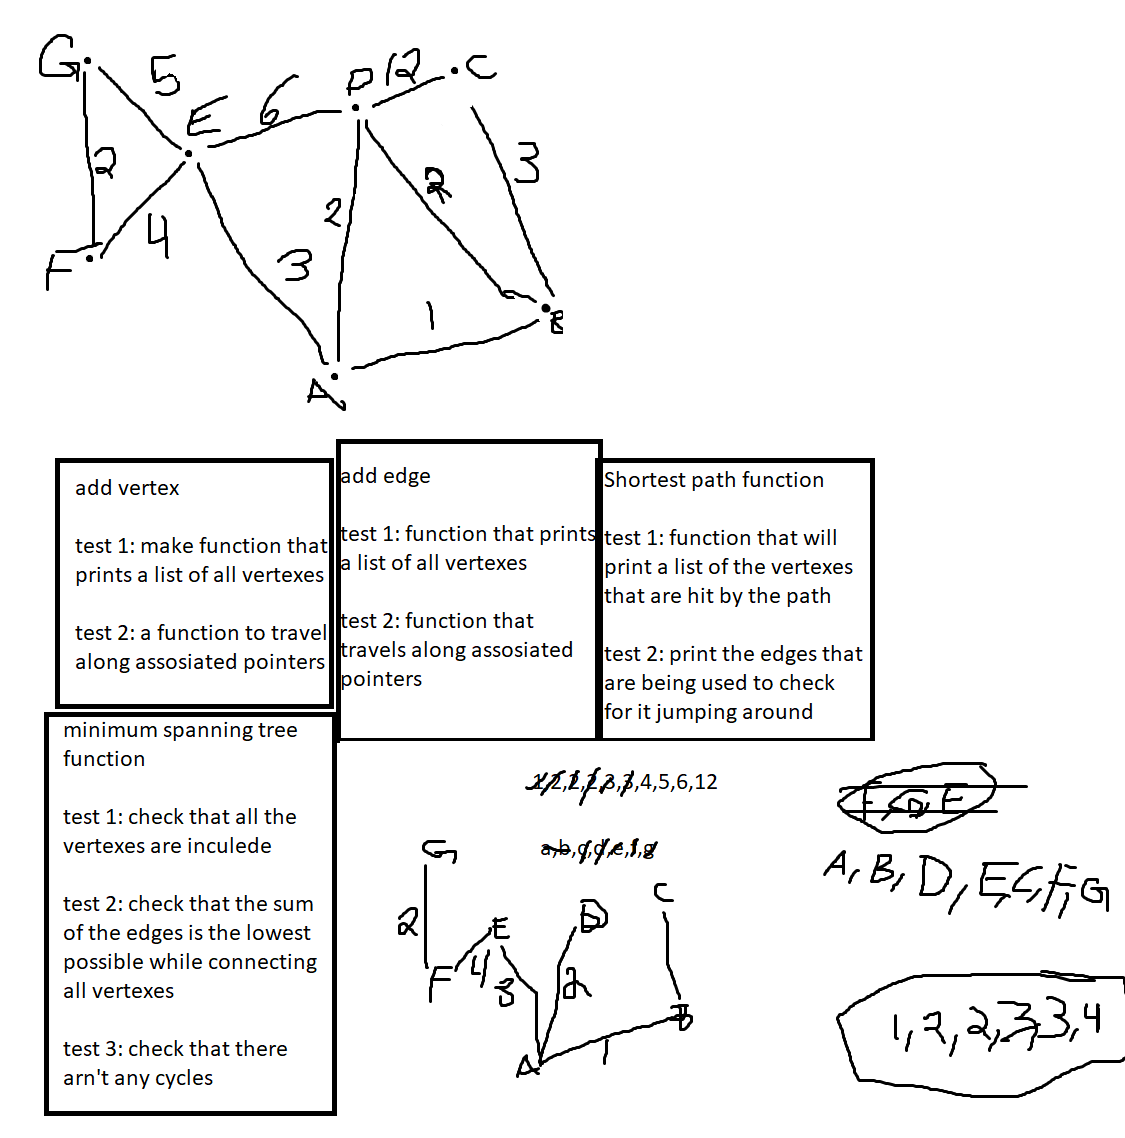
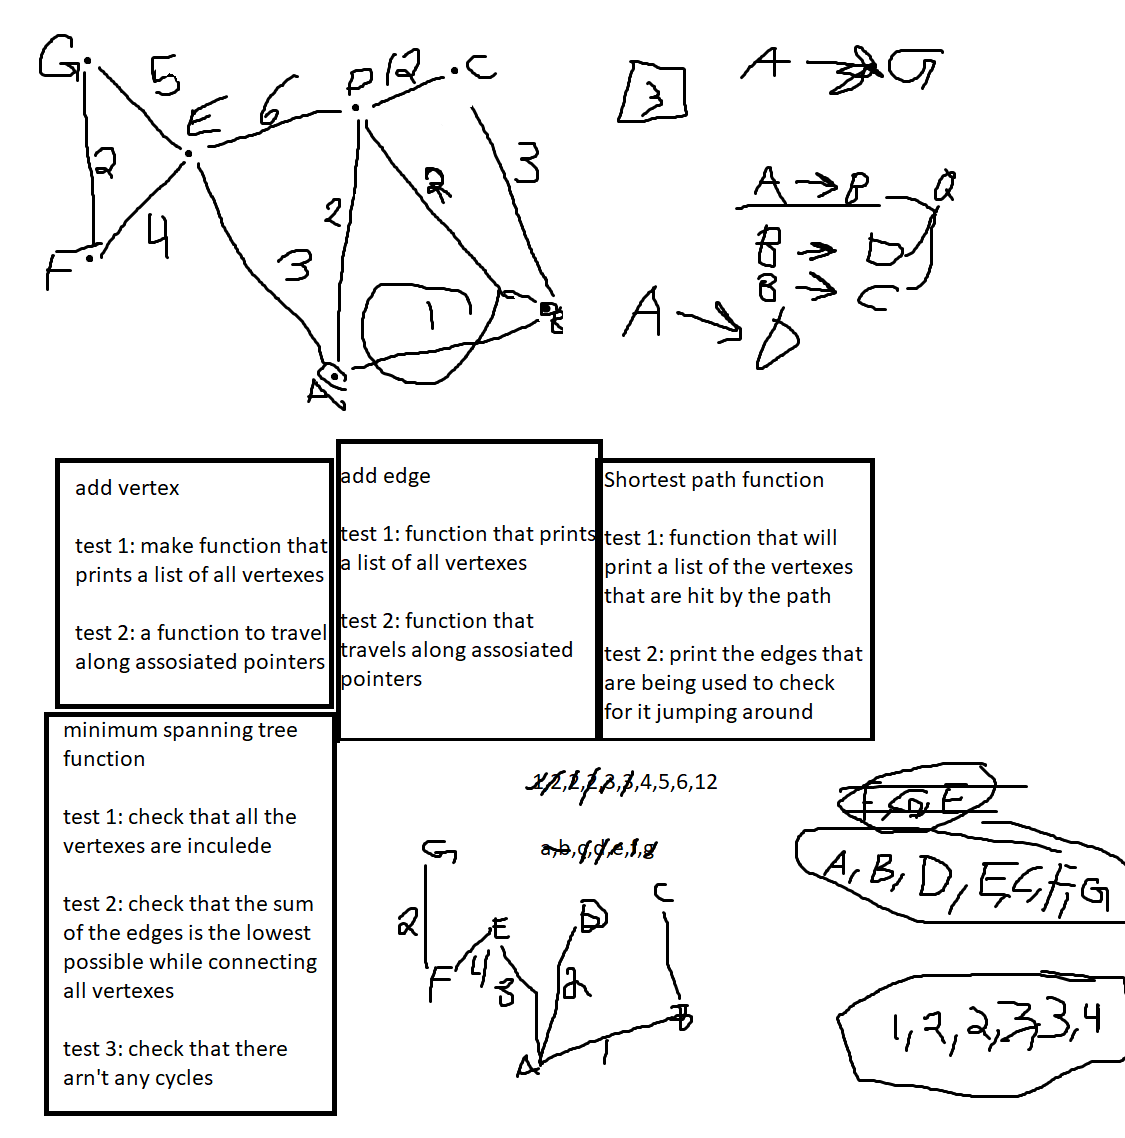
Shortest path algorithm implemented Sucsessfully HELL YEAH

diff --git a/Final/Graph.c b/Final/Graph.c
@@ -26,25 +26,50 @@ void print_graph(struct Graph *graph_name)
     
 }
 
-int print_sum_for_que_of_ques(struct que *que_of_ques)
+void print_que(struct que *que_to_be_printed)
 {
+    printf("\n");
+    int sum_of_path = 0;
+    struct linked_list_node *temp_edge = que_to_be_printed->first_node;
+    while (temp_edge != NULL)
+    {
+        Edge *edge_node = temp_edge->data;
+        sum_of_path += edge_node->weight;
+        printf("%s\n", edge_node->name);
+        temp_edge = temp_edge->ptr_next;
+    }
+    printf("sum of path: %d\n\n", sum_of_path);
+}
+
+struct que * find_shortest_path(struct que *que_of_ques)
+{
+    struct que *returned_path = NULL;
     struct linked_list_node *temp_que_node = que_of_ques->first_node;
+    int sum_of_path = 0;
+    int smallest_sum_of_path = 999999999;
     while (temp_que_node != NULL)
     {
-        int sum_of_path = 0;
         struct que *temp_edge_que = temp_que_node->data;
         struct linked_list_node *temp_edge = temp_edge_que->first_node;
         while (temp_edge != NULL)
         {
             Edge *edge_node = temp_edge->data;
             sum_of_path += edge_node->weight;
-            printf("%s\n", edge_node->name);
+            // printf("%s\n", edge_node->name);
             temp_edge = temp_edge->ptr_next;
         }
+        if (sum_of_path < smallest_sum_of_path)
+        {
+            smallest_sum_of_path = sum_of_path;
+            returned_path = temp_edge_que;
+        }
         temp_que_node = temp_que_node->ptr_next;
-        printf("sum of path: %d\n", sum_of_path);
+        // printf("sum of path: %d\n", sum_of_path);
+
+        sum_of_path = 0;
     }
-    
+    printf("smallest sum of path: %d\n", smallest_sum_of_path);
+    return returned_path;
 }
 
 //add a vertex to the graph
@@ -162,7 +187,7 @@ int search_que_data(struct que *que_to_be_searched, Edge *data_to_be_checked)
     return 1;
 }
 
-struct que * path_from_a_to_z(struct Graph *graph, struct que *edge_que_passed_in, struct que *A_Z_path_ques, char *starting_point, char *ending_point)
+struct que * paths_from_a_to_z(struct Graph *graph, struct que *edge_que_passed_in, struct que *A_Z_path_ques, char *starting_point, char *ending_point)
 {
     static int nested_levels = 0;
     struct linked_list_node *node_vert = graph->vertices->first_node;
@@ -204,6 +229,11 @@ struct que * path_from_a_to_z(struct Graph *graph, struct que *edge_que_passed_i
                 }
                 
                 path_que = add_to_que(path_que, edge_que_copy);
+                if (nested_levels > 1)
+                {
+                    pop_last_node(edge_que);
+                }
+                
             }
             else
             {
@@ -215,97 +245,27 @@ struct que * path_from_a_to_z(struct Graph *graph, struct que *edge_que_passed_i
                 {
                     temp_vert = temp_edge->point1;
                 }
-
-                edge_que = path_from_a_to_z(graph, edge_que, path_que, temp_vert->name, ending_point);
+                // printf("before recursion goes down\n");
+                // print_que(edge_que);
+                edge_que = paths_from_a_to_z(graph, edge_que, path_que, temp_vert->name, ending_point);
+                // printf("after edge_que is stored and returns from recursion\n");
             }
         }
         temp_edge_node = temp_edge_node->ptr_next;
     }
-
-    // Edge *last_edge_in_list = peek_last_node(edge_que);
-
-    // if (last_edge_in_list->point1 == ending_vert || last_edge_in_list->point2 == ending_vert)
-    // {
-    //     nested_levels--;
-    //     return edge_que;
-    // }
-
     pop_last_node(edge_que);
     nested_levels--;
     return edge_que;
 }
 
-
-
-// Function for finding the shortest path from one vertex to another
-
-// struct que * shortest_path(struct Graph *graph, char *starting_point, char *ending_point)
-// {
-//     static int nested_levels = 0;
-//     struct linked_list_node *node_vert = graph->vertices->first_node;
-//     struct linked_list_node *node_edge = graph->edges->first_node;
-//     Vertex *ending_vert = search_for_node(node_vert, ending_point,check_vertex_name);
-//     Vertex *starting_vert = search_for_node(node_vert, starting_point,check_vertex_name);
-//     nested_levels++;
-//     // printf("starting_vert name: %s, %d\n", starting_vert->name, nested_levels);
-
-//     if (nested_levels >= 50)
-//     {
-//         nested_levels--;
-//         return NULL;
-//     }
-
-//     Vertex *temp_vert = NULL;
-//     struct que *edge_que = edge_que_passed_in;
-//     struct linked_list_node *temp_edge_node = starting_vert->edge_list->first_node;
-
-//     temp_vert = starting_vert;
-//     temp_edge_node = temp_vert->edge_list->first_node;
-    
-//     while (temp_edge_node != NULL)
-//     {
-//         Edge *temp_edge = temp_edge_node->data;
-//         if (search_que_data(edge_que, temp_edge) == 1)
-//         {
-//             edge_que = add_to_que(edge_que, temp_edge);
-//             if (temp_edge->point1 == ending_vert || temp_edge->point2 == ending_vert)
-//             {
-//                 nested_levels--;
-//                 return edge_que;
-//             }
-//             if(check_vertex_name(temp_edge->point1, starting_vert->name) == 1)
-//             {
-//                 temp_vert = temp_edge->point2;
-//             }
-//             else if(check_vertex_name(temp_edge->point2, starting_vert->name) == 1)
-//             {
-//                 temp_vert = temp_edge->point1;
-//             }
-
-//             edge_que = path_from_a_to_z(graph, edge_que, temp_vert->name, ending_point);
-//         }
-//         temp_edge_node = temp_edge_node->ptr_next;
-//     }
-//     Edge *last_edge_in_list = peek_last_node(edge_que);
-
-//     if (last_edge_in_list->point1 == ending_vert || last_edge_in_list->point2 == ending_vert)
-//     {
-//         nested_levels--;
-//         return edge_que;
-//     }
-
-//     pop_last_node(edge_que);
-//     nested_levels--;
-//     return edge_que;
-// }
-
-//need to make 4 ques: que 1 list of vertices in graph and not in tree, que 2 list of vertices added to minimum spanning tree, que 3 temp list of connected vertices not in tree, que 4 list of edges in graph sorteded by weight
+//need to make 4 ques: que 1 list of vertices in graph and not in tree, que 2 list of vertices added to minimum spanning tree, que 3 temp list of
+//connected vertices not in tree, que 4 list of edges in graph sorteded by weight
 //step one connect 2 vertices from graph with lowest edge value from list (should be first one) add vertices to que 2 remove vertices from que 1 
 //step 2 cheak next lowest weighted edge's points for one in tree and one not in tree or neither in tree if neither in tree add points to que 3
 //repeat step 2 till all vertices are in tree
 void Minimum_Spanning_Tree()
 {
-
+   
 }
 
 void main()
@@ -351,7 +311,14 @@ void main()
         search_for_node(graph1.vertices->first_node,"F",check_vertex_name), 
         search_for_node(graph1.vertices->first_node,"G",check_vertex_name)));
 
-    path_que_ptr = path_from_a_to_z(&graph1,path_que_ptr,&que_of_ques,"A","G");
+    //prints Full Gragh Structure
+    print_graph(&graph1);
+    printf("\n");
+    //prints Full Graph Structure
 
-    print_sum_for_que_of_ques(&que_of_ques);
+    //shortest path print
+    paths_from_a_to_z(&graph1,path_que_ptr,&que_of_ques,"C","G");
+    path_que_ptr = find_shortest_path(&que_of_ques);
+    print_que(path_que_ptr);
+    //sortest path print finished
 }

diff --git a/Final/que_linked_list.c b/Final/que_linked_list.c
@@ -100,13 +100,13 @@ void * pop_last_node(struct que *que_num)
 {
     if (que_num == NULL)
     {
-        printf("no data in que\n");
+        // printf("no data in que\n");
         return 0;   
     }
     
     if (que_num->last_node == NULL)
     {
-        printf("no data in que\n");
+        // printf("no data in que\n");
         return 0;
     }
     else
